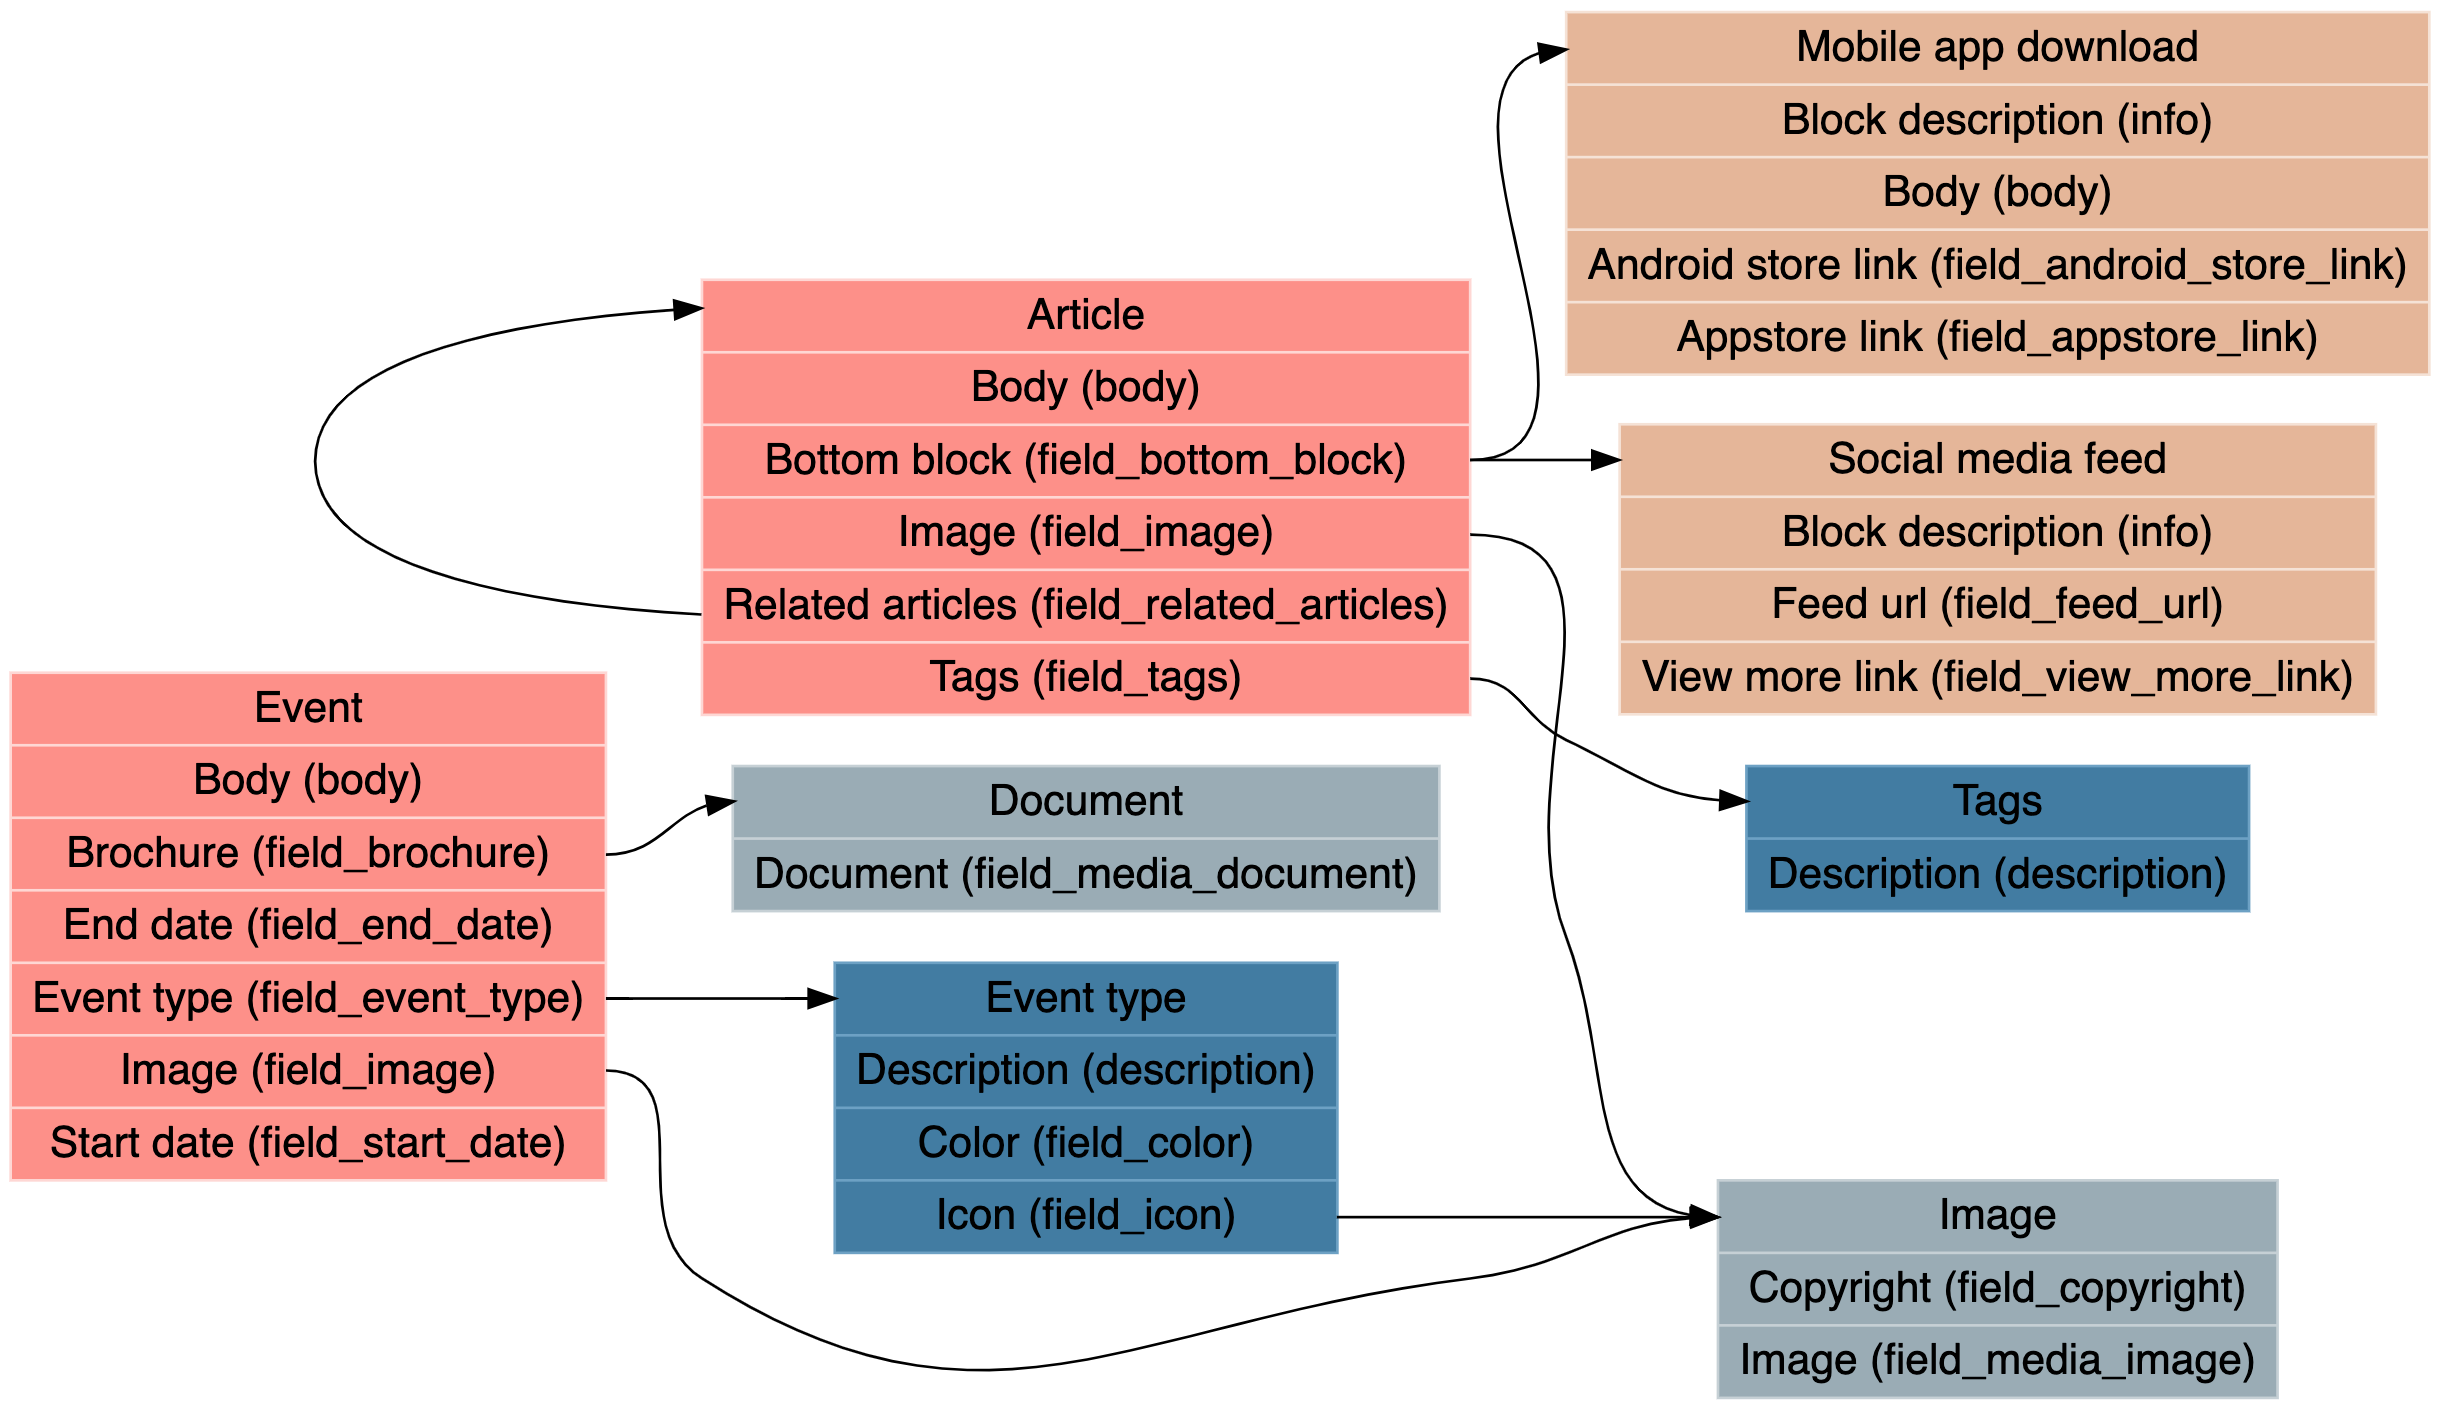
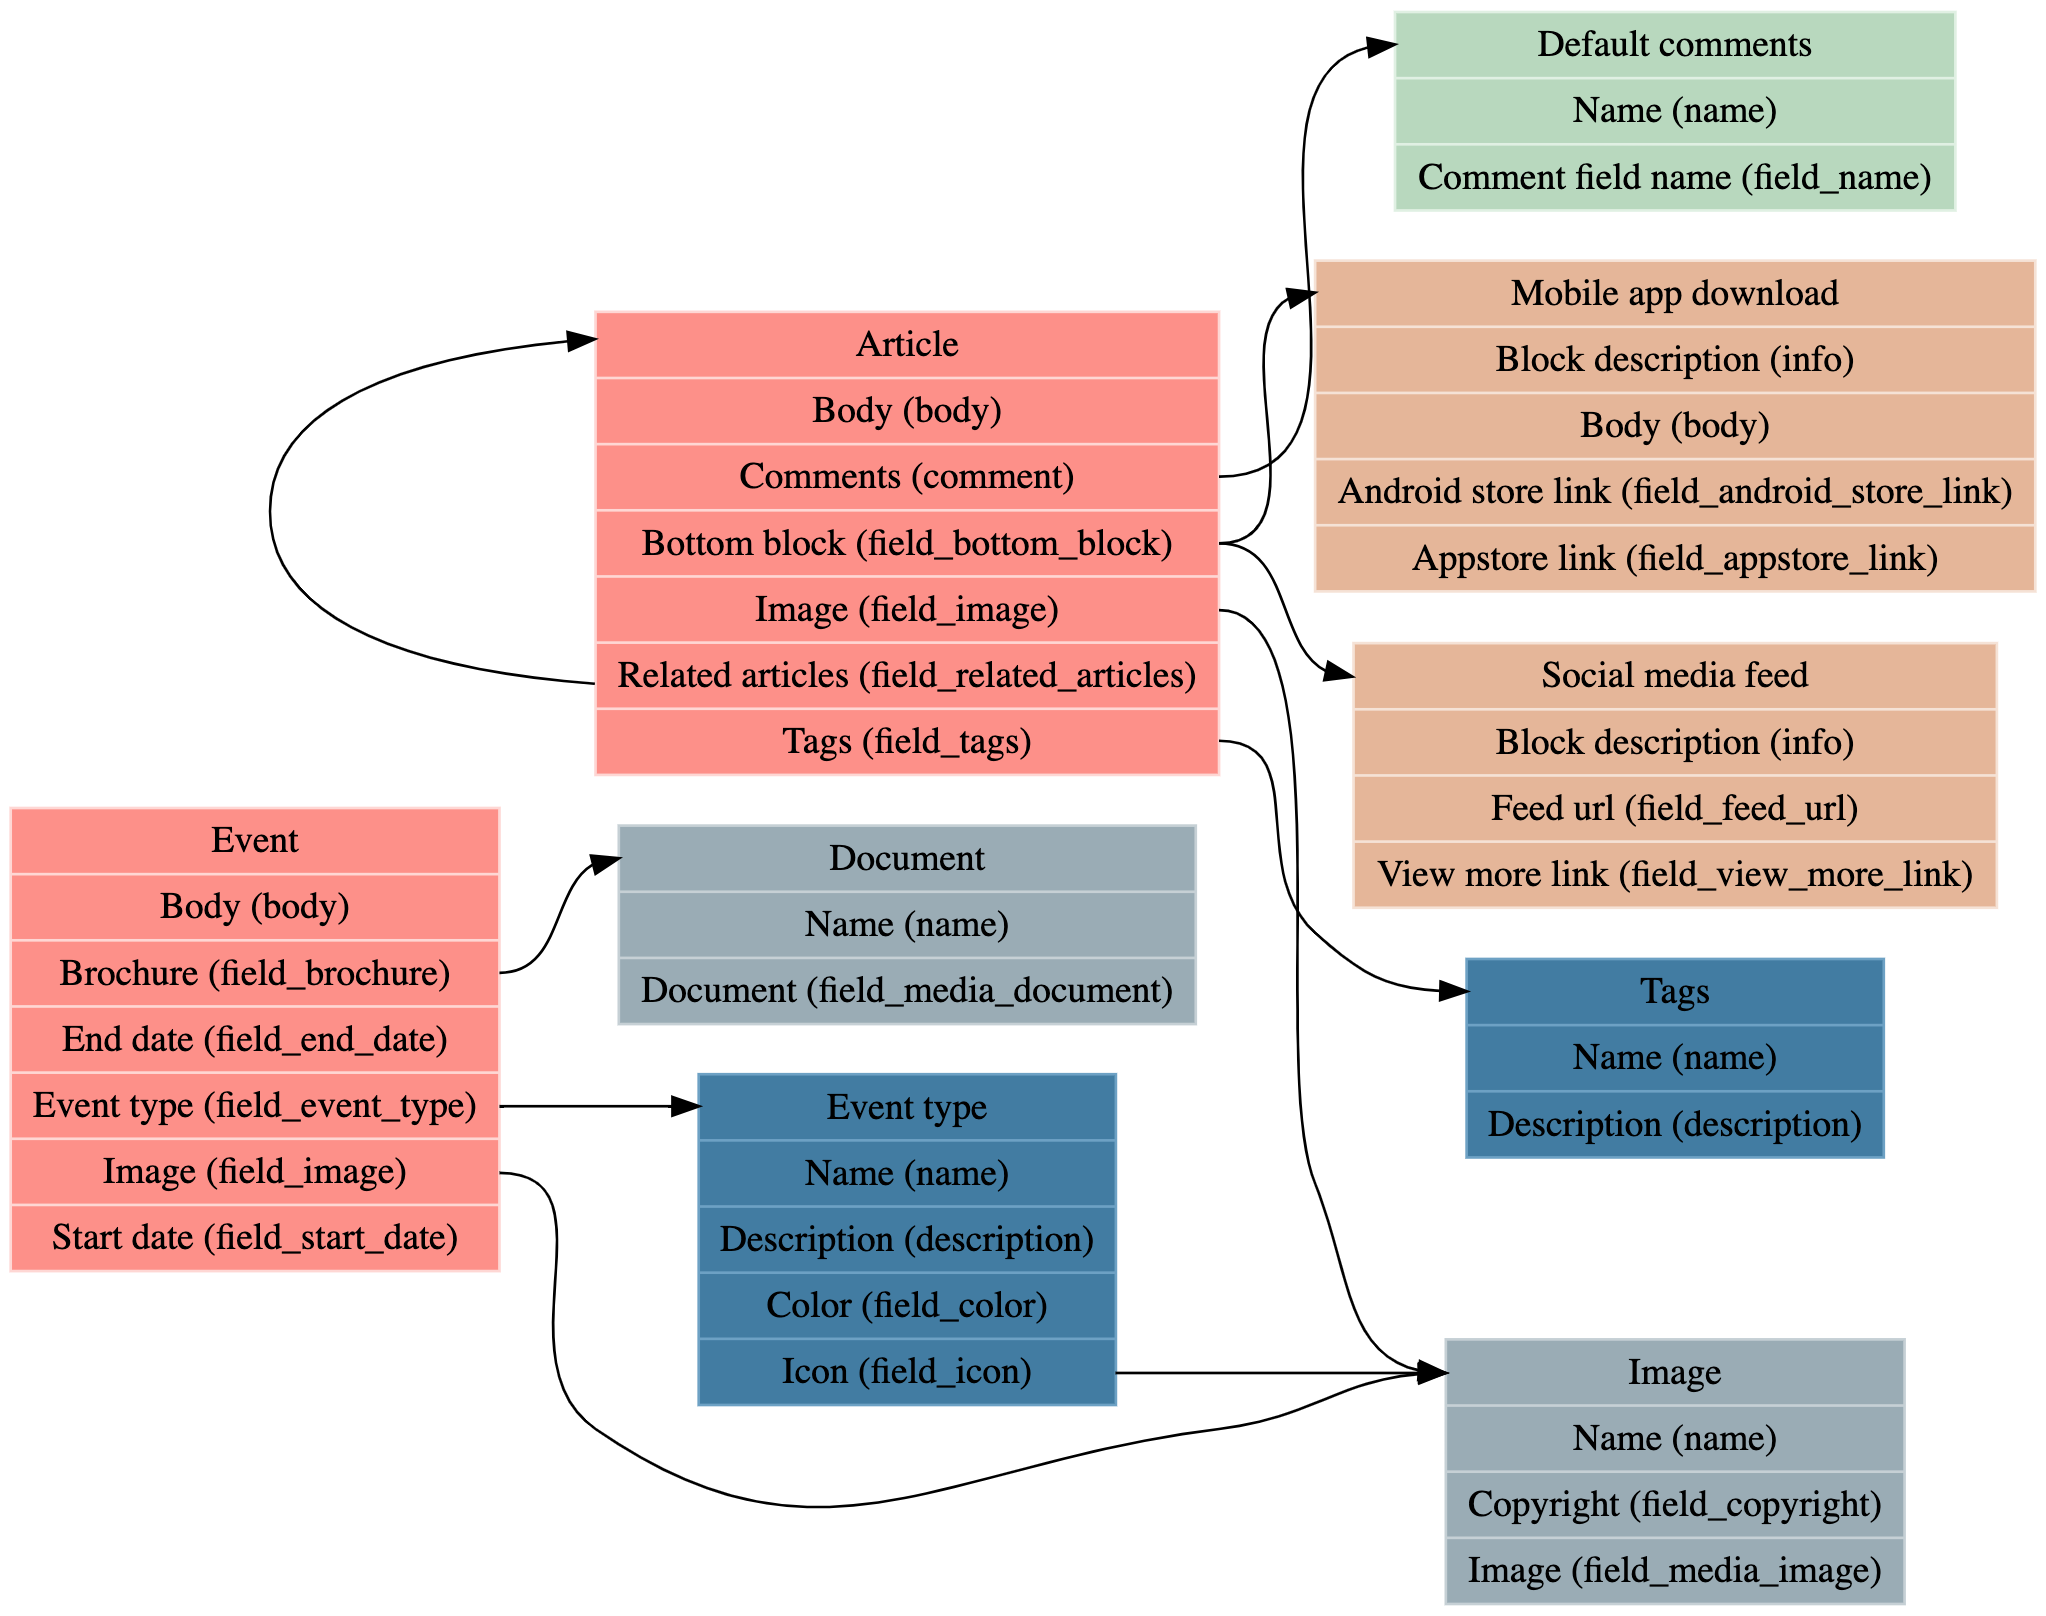
Update.

diff --git a/entity_type_explorer.php b/entity_type_explorer.php
@@ -13,7 +13,8 @@
  *   $colors: array of colors for each entity type. #808080 by default.
  *
  * Note:
- *   Only the "body", "description", "info" and "field_*" are displayed and explored.
+ *   Only the "body", "name", "description", "info", 'comment' and "field_*" are
+ *   displayed.
  *   Only the fields implementing EntityReferenceFieldItemListInterface or
  *   BlockFieldItemInterface are explored.
  */
@@ -27,6 +28,7 @@ $entity_types = [
   'media',
   'taxonomy_term',
   'paragraph',
+  'comment'
 ];
 
 $light_colors = [
@@ -35,6 +37,7 @@ $light_colors = [
   'media' => '#9aacb5',
   'node' => '#fd9089',
   'taxonomy_term' => '#427ca2',
+  'comment' => '#b8d8be',
 ];
 
 $colors = [
@@ -43,6 +46,15 @@ $colors = [
   'media' => '#c6d0d5',
   'node' => '#fed7d4',
   'taxonomy_term' => '#6da1c4',
+  'comment' => '#e0f0e3',
+];
+
+$explored_field_names = [
+  'name',
+  'description',
+  'info',
+  'body',
+  'comment',
 ];
 
 $graph = 'digraph g {
@@ -77,9 +89,8 @@ foreach ($entity_definitions as $definition_id => $definition) {
 
         $field_name = $field_storage_definition->getName();
 
-        // We keep only the body field and any field_* field.
         // @TODO: Make it configurable.
-        if ($field_name !== 'body' && $field_name !== 'description' && $field_name !== 'info' && !str_starts_with($field_name, 'field_')) {
+        if (!in_array($field_name, $explored_field_names) && !str_starts_with($field_name, 'field_')) {
           continue;
         }
 
@@ -139,4 +150,4 @@ foreach ($entity_definitions as $definition_id => $definition) {
 $graph .= $links;
 $graph .= "\n}";
 
-echo 'https://dreampuf.github.io/GraphvizOnline/#' . rawurlencode($graph);
+echo 'https://dreampuf.github.io/GraphvizOnline/#' . $graph;

diff --git a/README.md b/README.md
@@ -22,3 +22,15 @@ types:
 - Paragraph
 
 You can change this list by editing the `$entity_types` variable in the script.
+
+For the visibility of the generated graph, the script is only displaying and
+exploring the following fields:
+- Body
+- Info (the Block Content title field)
+- Name (the Taxonomy term name field)
+- Description (the Taxonomy term description field)
+- Comment
+- field_* (all other fields)
+
+You can change this list by editing the `$explored_field_names` variable in
+the script.
